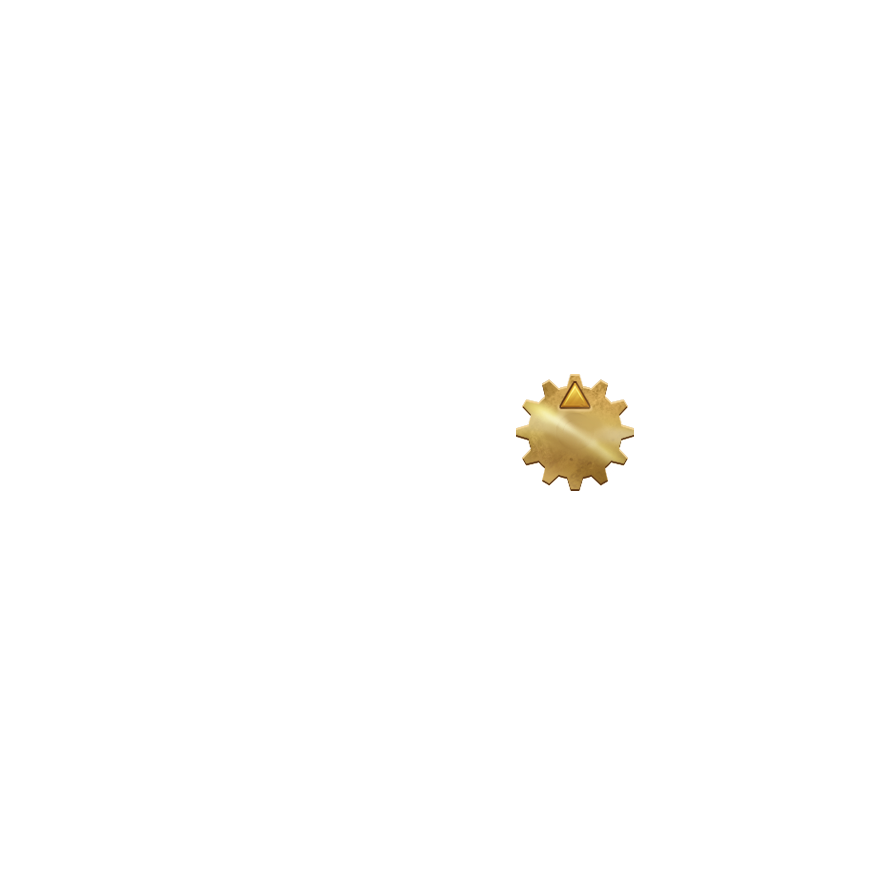
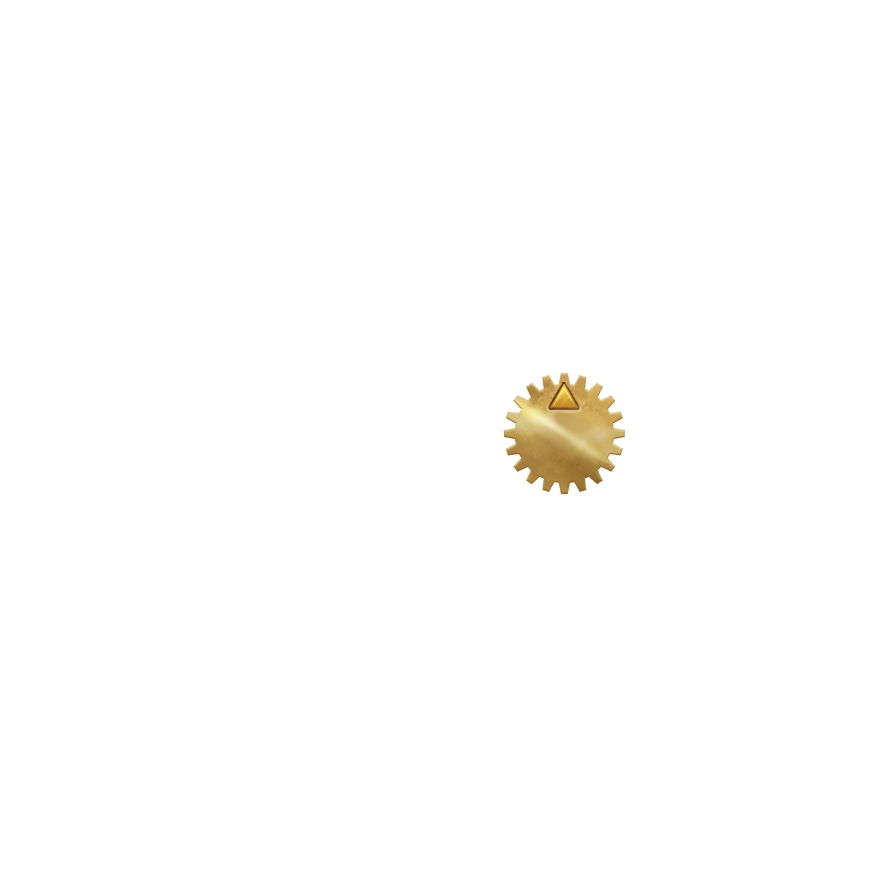
Mesh gear_03 with the central gear and use the painted gear art
gear_03 rolls in mesh with the static central gear: its local spin is the
epicyclic rate (orbit x 24/20) plus a small phase trim, and centralRadius
seats its tooth in the central gear's gap. The artifact clock accumulates
scaled seconds so changing timeScale stays continuous. central_gear, gear_03,
and ring_02 carry the artist's painted art, the blue glows rest a touch
brighter, and the lab's central orbit-radius slider is a fine 0.98-1.01 control.

Claude-Session: https://claude.ai/code/session_01Q6PLZY4FeeRpwUcSDqktu9

Changed region(s): [[0.5467, 0.4252, 0.7289, 0.5771]]

diff --git a/paulmartin.dev/src/pages/ArtifactLab.jsx b/paulmartin.dev/src/pages/ArtifactLab.jsx
@@ -1,4 +1,4 @@
-import { useMemo, useState } from 'react'
+import { useMemo, useRef, useState } from 'react'
 import Artifact from '../artifact/Artifact.jsx'
 import { DEFAULT_CONFIG, LAYERS } from '../artifact/artifactLayers.js'
 
@@ -9,6 +9,8 @@ const GLOW_SLUGS = LAYERS.filter((l) => l.kind === 'glow').map((l) => l.slug)
 // tuned look can be pasted back into DEFAULT_CONFIG (or passed as a prop when
 // the artifact drops under lid 5).
 const CONTROLS = [
+  { group: 'Global' },
+  { key: 'timeScale', label: 'Time scale', min: 0.02, max: 2, step: 0.02, unit: 'x' },
   { group: 'Fore gears (Gear_01, Gear_02)' },
   { key: 'foreOrbit', label: 'Orbit speed', min: -120, max: 120, step: 1, unit: 'deg/s' },
   { key: 'foreSpin', label: 'Local spin', min: -180, max: 180, step: 1, unit: 'deg/s' },
@@ -16,7 +18,8 @@ const CONTROLS = [
   { group: 'Central gear (Gear_03)' },
   { key: 'centralOrbit', label: 'Orbit speed', min: -120, max: 120, step: 1, unit: 'deg/s' },
   { key: 'centralSpin', label: 'Local spin', min: -180, max: 180, step: 1, unit: 'deg/s' },
-  { key: 'centralRadius', label: 'Orbit radius', min: 0, max: 1.8, step: 0.02, unit: 'x' },
+  { key: 'centralRadius', label: 'Orbit radius', min: 0.98, max: 1.01, step: 0.0005, unit: 'x' },
+  { key: 'centralPhase', label: 'Tooth phase', min: -18, max: 18, step: 0.25, unit: 'deg' },
   { group: 'Back gears (Back_Gear, Gear_04-08)' },
   { key: 'backSpin', label: 'Local spin', min: -180, max: 180, step: 1, unit: 'deg/s' },
   { group: 'Glows (synchronised)' },
@@ -36,6 +39,21 @@ export default function ArtifactLab() {
   const [config, setConfig] = useState(DEFAULT_CONFIG)
   const [ground, setGround] = useState(GROUNDS[0])
   const [size, setSize] = useState(820)
+  // Zoom + pan for inspecting details (e.g. gear meshing) up close.
+  const [zoom, setZoom] = useState(1)
+  const [pan, setPan] = useState({ x: 0, y: 0 })
+  const drag = useRef(null)
+  const onDown = (e) => { drag.current = { x: e.clientX, y: e.clientY, px: pan.x, py: pan.y } }
+  const onMove = (e) => {
+    if (!drag.current) return
+    setPan({ x: drag.current.px + (e.clientX - drag.current.x), y: drag.current.py + (e.clientY - drag.current.y) })
+  }
+  const onUp = () => { drag.current = null }
+  const onWheel = (e) => {
+    e.preventDefault()
+    setZoom((z) => Math.min(20, Math.max(1, z * (e.deltaY < 0 ? 1.12 : 1 / 1.12))))
+  }
+  const resetView = () => { setZoom(1); setPan({ x: 0, y: 0 }) }
   const set = (key, v) => setConfig((c) => ({ ...c, [key]: v }))
   const setGlowMax = (slug, v) =>
     setConfig((c) => ({ ...c, glowMax: { ...c.glowMax, [slug]: v } }))
@@ -47,8 +65,22 @@ export default function ArtifactLab() {
 
   return (
     <div style={S.page}>
-      <div style={{ ...S.stage, background: ground }}>
-        <div style={{ width: size, maxWidth: '90%' }}>
+      <div
+        style={{ ...S.stage, background: ground, overflow: 'hidden', cursor: zoom > 1 ? 'grab' : 'default' }}
+        onMouseDown={onDown}
+        onMouseMove={onMove}
+        onMouseUp={onUp}
+        onMouseLeave={onUp}
+        onWheel={onWheel}
+      >
+        <div
+          style={{
+            width: size,
+            maxWidth: '90%',
+            transform: `translate(${pan.x}px, ${pan.y}px) scale(${zoom})`,
+            transformOrigin: 'center center',
+          }}
+        >
           <Artifact config={config} />
         </div>
       </div>
@@ -70,6 +102,14 @@ export default function ArtifactLab() {
         <label style={S.field}>
           <span style={S.label}>Preview size <b>{size}px</b></span>
           <input type="range" min={200} max={820} step={10} value={size} onChange={(e) => setSize(+e.target.value)} />
+        </label>
+        <label style={S.field}>
+          <span style={S.label}>
+            Zoom <b>{zoom.toFixed(1)}x</b>
+            <button onClick={resetView} style={{ float: 'right', ...S.btn, flex: 'none', padding: '0.15rem 0.5rem', fontSize: '0.72rem' }}>reset view</button>
+          </span>
+          <input type="range" min={1} max={20} step={0.1} value={zoom} onChange={(e) => setZoom(+e.target.value)} />
+          <span style={{ ...S.small, display: 'block', marginTop: '0.2rem' }}>scroll over the art to zoom, drag to pan</span>
         </label>
 
         {CONTROLS.map((c) =>
@@ -159,7 +199,9 @@ export default function ArtifactLab() {
 }
 
 function fmt(v) {
-  return Number.isInteger(v) ? v : Math.round(v * 100) / 100
+  // round to 4 decimals; JS drops trailing zeros so 0.4 stays 0.4 but 0.9885 reads
+  // in full (the fine orbit-radius slider steps by 0.0005).
+  return Number.isInteger(v) ? v : Math.round(v * 10000) / 10000
 }
 
 const S = {

diff --git a/paulmartin.dev/src/artifact/artifactLayers.js b/paulmartin.dev/src/artifact/artifactLayers.js
@@ -38,7 +38,7 @@ export const LAYERS = [
   { slug: 'ring_02', kind: 'static' },
   { slug: 'central_rings', kind: 'static' },
   { slug: 'central_gear', kind: 'static' },
-  { slug: 'gear_03', kind: 'orbit', center: [0.6468, 0.4865], speed: 'central' },
+  { slug: 'gear_03', kind: 'orbit', center: [0.6349, 0.4876], speed: 'central' },
   { slug: 'gem', kind: 'blue' },
   { slug: 'gem_glow', kind: 'glow' },
   { slug: 'gear_02', kind: 'orbit', center: [0.4989, 0.1614], speed: 'fore' },
@@ -46,22 +46,36 @@ export const LAYERS = [
 ]
 
 export const DEFAULT_CONFIG = {
+  // Global time multiplier (1 = real time). Drop it to crawl through the motion in
+  // slow motion, e.g. to check gear meshing; it scales every rate uniformly.
+  timeScale: 1,
   // gear speeds, degrees per second (negative = counter-clockwise)
   foreOrbit: 20,
   foreSpin: 100,
   centralOrbit: -40,
-  centralSpin: -80,
+  // The orbit wrapper already rotates gear_03 by the orbit angle, so absolute
+  // rotation = orbit + spin. Epicyclic mesh needs absolute = orbit*(1 + 24/20), so
+  // the LOCAL spin config = orbit * (24/20) = orbit * 1.2.
+  centralSpin: -48,
   backSpin: -6,
   // orbit radius scale for the orbiting gears (1 = the art's own distance from the
   // gem centre; <1 pulls them in toward the centre, >1 pushes them out)
   foreRadius: 1,
-  centralRadius: 1,
+  // gear_03 is a 20-tooth flat-top trapezoid matched to the 24-tooth central gear:
+  // its flank angle is steepened so the flanks come out parallel to the central
+  // gear's gap walls, so the tooth fills the gap along its whole length (base too).
+  // 0.991 pulls it in ~1px from the pitch-tangent distance to seat the seam.
+  centralRadius: 0.991,
+  // Fine phase trim (degrees) added to gear_03's rotation, to centre its tooth in
+  // the central gear's gap. Both gears are regular, so the baked half-tooth offset
+  // lands it centred and no trim is needed.
+  centralPhase: 0,
   // glow oscillation. The pulse peaks at max (never overshoots) at mid-period and
   // troughs at max*glowMin at the ends; the period is independent of max.
   glowPeriod: 4, // seconds for one floor->peak->floor cycle
   // Per-glow floor: the constant base level each glow never drops below (a
   // fraction of its max). The pulse/radial wave rides from this floor up to max.
-  glowMin: { blue_rays_glow: 0.25, blue_lines_glow: 0.25, gem_glow: 0.7 },
+  glowMin: { blue_rays_glow: 0.4, blue_lines_glow: 0.4, gem_glow: 0.7 },
   glowGain: 3, // brightness/saturate boost so faint source glows can be pushed up
   // 'whole' pulses each glow's opacity uniformly; 'out'/'in' instead sweep a comet
   // ring from the gem centre outward / inward on a sawtooth ramp over the period.

diff --git a/paulmartin.dev/src/artifact/Artifact.jsx b/paulmartin.dev/src/artifact/Artifact.jsx
@@ -48,23 +48,27 @@ export default function Artifact({ config = DEFAULT_CONFIG, className = '', cent
     widthRef.current = el.clientWidth
 
     let raf
-    let start = null
+    let lastT = null
+    let accum = 0 // scaled elapsed seconds (so changing timeScale never jumps)
     const loop = (t) => {
-      if (start == null) start = t
-      const sec = (t - start) / 1000
+      if (lastT == null) lastT = t
       const c = cfgRef.current
+      accum += ((t - lastT) / 1000) * (c.timeScale ?? 1)
+      lastT = t
+      const sec = accum
       const W = widthRef.current || 1
 
       // Local spins. Orbiting gears also translate radially (from the gem centre)
       // by their group's radius scale, so the slider moves them closer/farther.
       for (const slug in spin) {
         const rate = slug === 'gear_03' ? c.centralSpin : gearSpinRate(slug, c)
+        const phase = slug === 'gear_03' ? c.centralPhase ?? 0 : 0
         const meta = ORBIT_META[slug]
         if (meta) {
           const scale = (meta.group === 'central' ? c.centralRadius : c.foreRadius) ?? 1
           const dx = (scale - 1) * meta.vx * W
           const dy = (scale - 1) * meta.vy * W
-          spin[slug].style.transform = `translate(${dx}px, ${dy}px) rotate(${rate * sec}deg)`
+          spin[slug].style.transform = `translate(${dx}px, ${dy}px) rotate(${rate * sec + phase}deg)`
         } else {
           spin[slug].style.transform = `rotate(${rate * sec}deg)`
         }
